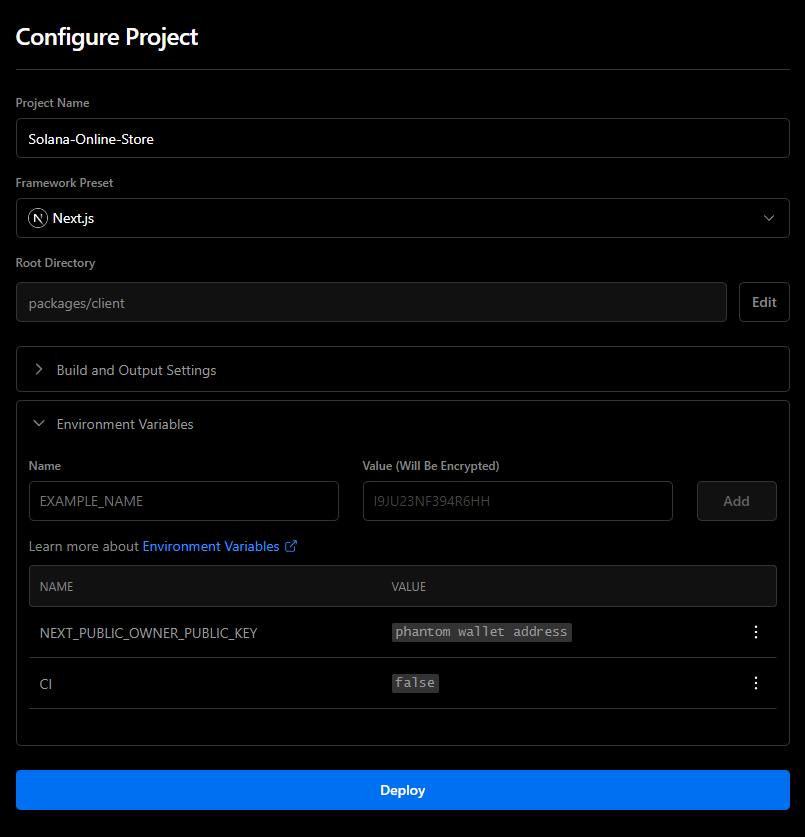
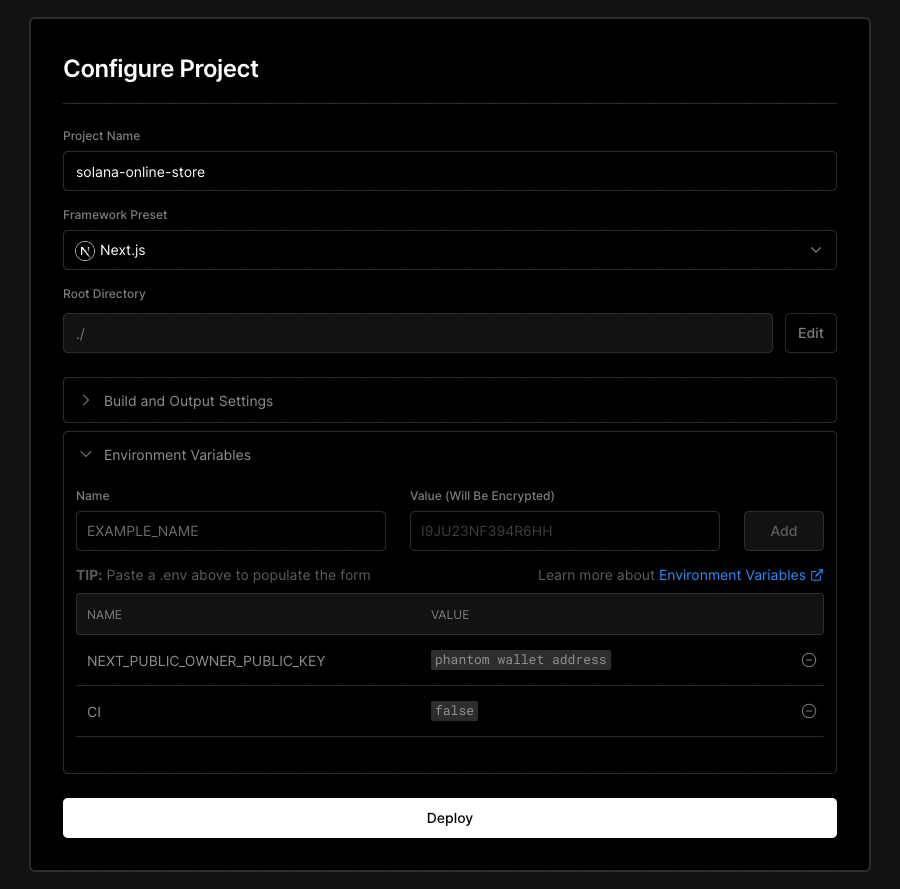
refactor: deploy to vercel

diff --git a/docs/Solana-Online-Store/ja/section-4/lesson-1_仕上げをしよう.md b/docs/Solana-Online-Store/ja/section-4/lesson-1_仕上げをしよう.md
@@ -11,7 +11,7 @@
 1\. `createTransaction.js`で設定したテストネットのUSDC SPLトークンアドレスを以下のとおりメインネットのUSDC SPLトークンアドレスに変更します。
 
 ```jsx
-const usdcAddress = new PublicKey("EPjFWdd5AufqSSqeM2qN1xzybapC8G4wEGGkZwyTDt1v");
+const usdcAddress = new PublicKey('EPjFWdd5AufqSSqeM2qN1xzybapC8G4wEGGkZwyTDt1v');
 ```
 
 2\. `_app.js`及び`createTransaction.js`ファイル内の`WalletAdapterNetwork`関数内にある`network`を以下のとおり変更します。
@@ -40,18 +40,18 @@ const network = WalletAdapterNetwork.Mainnet;
 
 ### 🙉 `.gitignore`を確認する
 
-Githubなどにコードをアップロードする際は、秘密鍵や構成ファイル等の見られたくないファイルはアップロードしないように設定する必要があります。
+GitHubなどにコードをアップロードする際は、秘密鍵や構成ファイル等の見られたくないファイルはアップロードしないように設定する必要があります。
 
 前のレッスンでも触れましたが、そういった際には`dotenv`モジュールを使用します。
 
-ただし、Githubにアップロードする場合、`.gitignore`に`.env`が含まれていないと`.env`も一緒にアップロードされてしまうので注意が必要です。
+ただし、GitHubにアップロードする場合、`.gitignore`に`.env.local`が含まれていないと`.env.local`も一緒にアップロードされてしまうので注意が必要です。
 
 `.gitignore`の中身に以下のファイルやフォルダが設定されているかを確認しましょう（不足しているものがあれば追加しましょう）。
 
 ```txt
 node_modules
 .DS_STORE
-.env
+.env.local
 ```
 
 > ⚠ 注意
@@ -87,7 +87,7 @@ git push
 
 続いて、以下の手順でVercelにデプロイします。
 
-1\. Vercelのダッシュボードから、`New Project`をクリックしてください。
+1\. Vercelのダッシュボードから、`Add New...`をクリックし、`Project`を選択します。
 
 ![new project](/public/images/Solana-Online-Store/section-4/4_1_1.png)
 
@@ -99,11 +99,11 @@ git push
 
 4\. **Environment Variables** に環境変数`CI = false`（NAME: CI、VALUE: false）を追加します（警告が原因でビルドが失敗しないようになります）。
 
-5\. **Environment Variables** に`.env`で設定した環境変数（NAME: NEXT_PUBLIC_OWNER_PUBLIC_KEY、VALUE: `phantom wallet address`）を直接入力してください( GitHubには`.env`ファイルを保存していないため、`Vercel`に直接記載する必要があります)。
+5\. **Environment Variables** に`.env.local`で設定した環境変数（NAME: NEXT_PUBLIC_OWNER_PUBLIC_KEY、VALUE: `phantom wallet address`）を直接入力してください( GitHubには`.env.local`ファイルを保存していないため、`Vercel`に直接記載する必要があります)。
 
 ![Environment Variables1](/public/images/Solana-Online-Store/section-4/4_1_3.png)
 
-6\.[Deploy]ボタンを押してデプロイします（VercelはGitHubと連動しているので、GitHubが更新されるたびに自動でデプロイを行ってくれます）。
+6\.`Deploy`ボタンを押してデプロイします（VercelはGitHubと連動しているので、GitHubが更新されるたびに自動でデプロイを行ってくれます）。
 
 **Vercel へのデプロイが無事完了しました!**
 
